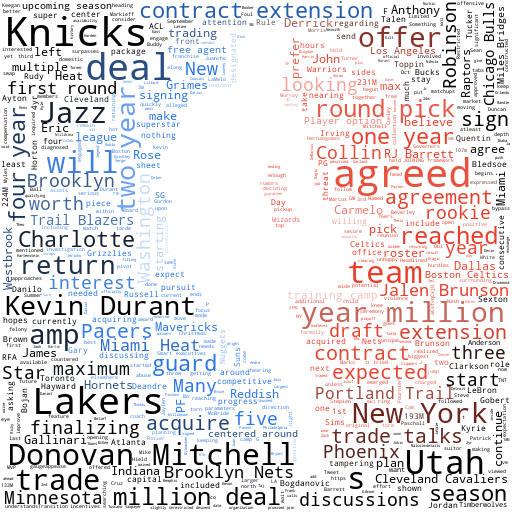
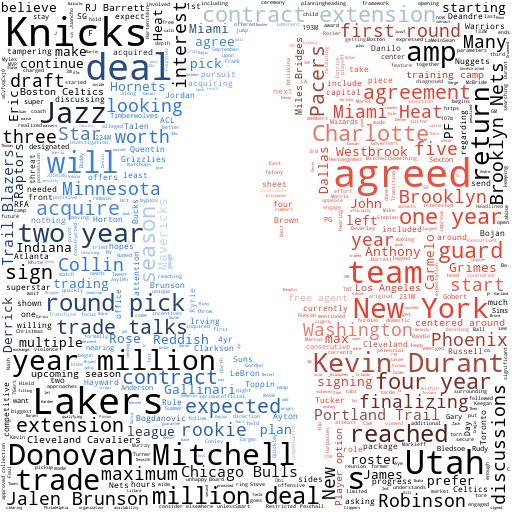
completed stop words custom list

diff --git a/stopwords.py b/stopwords.py
@@ -1,0 +1,2 @@
+stopwords_list = ['how','offer', "there's", 'are', 'could', 'some', 'up', 'which', "wouldn't", "aren't", 'having', 'be', 'off', 'then', 'a', "hasn't", 'ourselves', 'all', 'so', 'them', 'below', 'from', "didn't", "let's", 'you', "don't", "they'd", 'while', 'her', 'http', 'also', 'same', "shouldn't", 'their', 'and', "they'll", 'would', 'these', "he'd", 'with', 'our', 'being', 'doing', 'again', 'like', 'through', 'com', 'those', 'else', 'they', 'of', "it's", "he'll", 'only', "she's", 'in', 'after', 'hence', 'ever', 'nor', 'i', 'therefore', "you're", 'before', "he's", "we've", 'out', 'both', 'own', 'or', 'down', "weren't", 'had', "won't", 'against', 'between', 'on', 'into', "we'd", 'at', 'hers', 'just', 'was', 'to', 'shall', 'herself', "what's", 'me', "she'll", "you've", "they've", 'until', 'but', 'did', 'yourself', 'there', 'has', 'as', 'not', 'ought', 'your', "haven't", "i've", 'other', 'above', 'most', "can't", "wasn't", "when's", 'here', 'otherwise', 'when', 'whom', "isn't", 'theirs', "doesn't", 'he', 'www', 'were', "how's", "i'll", 'yourselves', 'my', 'by', 'such', 'the', 'very', 'its', 'ours', "i'd", "why's", 'who', 'further', 'itself', 'is', 'his', 'myself', "that's", 'too', 'each', 'more', 'cannot', 'r', 'what', 'have', 'can', 'we', 'where', 'an', "hadn't", 'during', 'under', "here's", 'am', 'over', 'it', 'him', 'himself', "they're", 'once', "couldn't", 'she', 'however', 'get', "who's", "mustn't", 'that', 'any', 'for', "we'll", 'yours', 'because', "she'd", "you'll", 'than', "i'm", 'does', 'since', 'been', 'about', 'why', 'this', 'if', 'should', 'themselves', "we're", 'no', "where's", 'k', 'few', "you'd", "shan't", 'do','t','NBA','Sources']
+

diff --git a/tweets.py b/tweets.py
@@ -7,6 +7,7 @@ import pandas as pd
 from wordcloud import WordCloud, STOPWORDS, ImageColorGenerator
 import sys, os
 from os import path
+from stopwords import stopwords_list
 os.chdir(sys.path[0])
 
 #twitter filter
@@ -35,10 +36,8 @@ text = open('tweets.csv', mode='r', encoding='utf-8').read()
 
 #STOPWORDS
 nba_logo = np.array(Image.open(path.join( "NBA-icon.png")))
-stopwords = set(STOPWORDS)
-stopwords.add("Sources")
-stopwords.add("NBA")
-
+# stopwords = ["https", "co", "RT","NBA","Sources","Offer","the","to"]
+stopwords = stopwords_list
 
 wc = WordCloud(background_color="white", max_words=2000, mask=nba_logo,
     stopwords=stopwords, max_font_size=40, random_state=42, repeat= False)
@@ -52,3 +51,4 @@ wc.recolor(color_func=image_colors)
 
 #storing word cloud to file
 wc.to_file('wordcloud_output.png')
+
